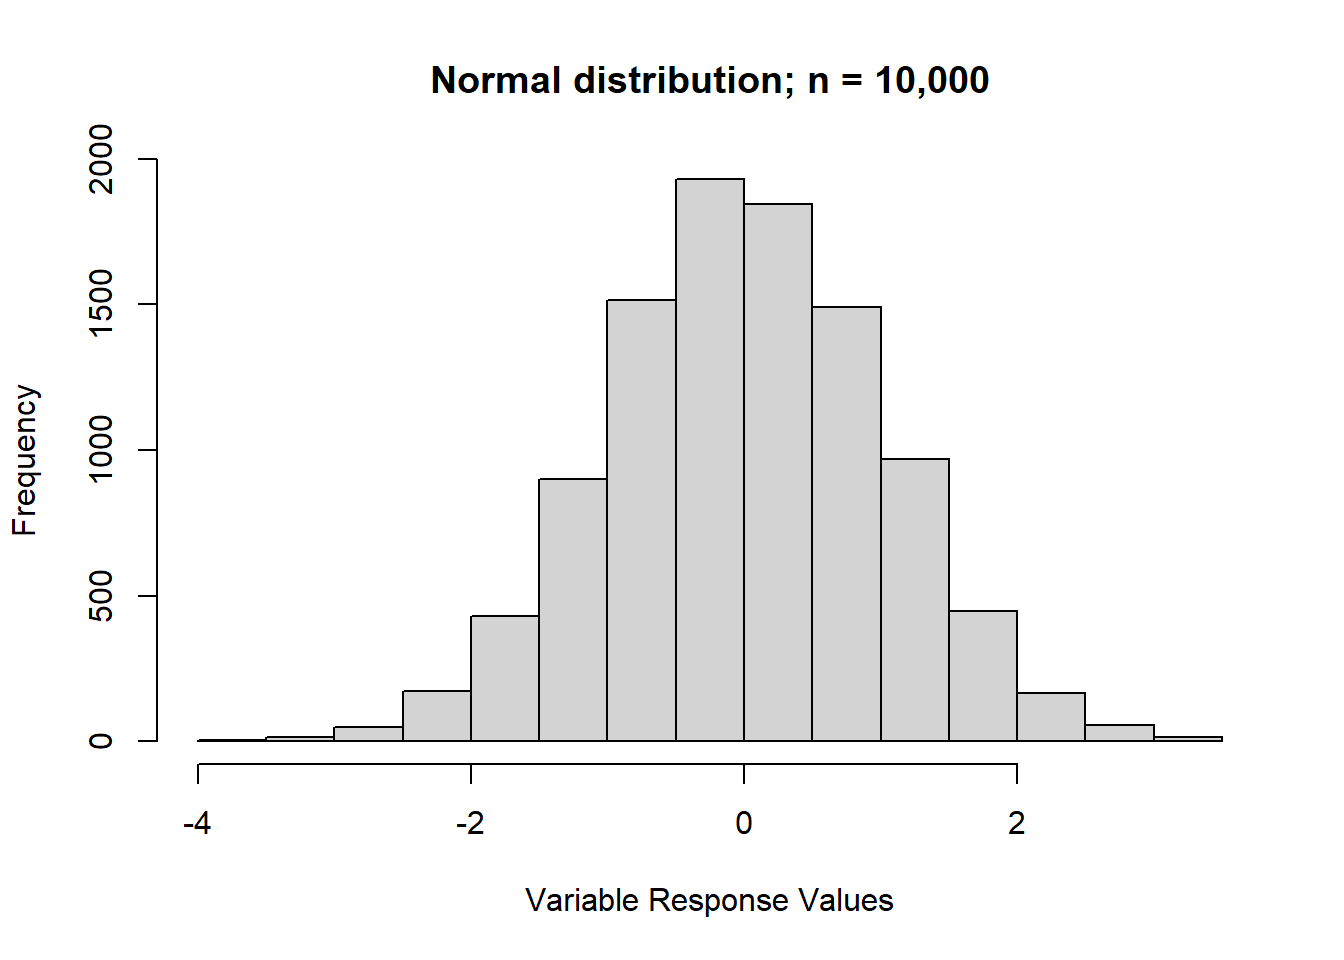
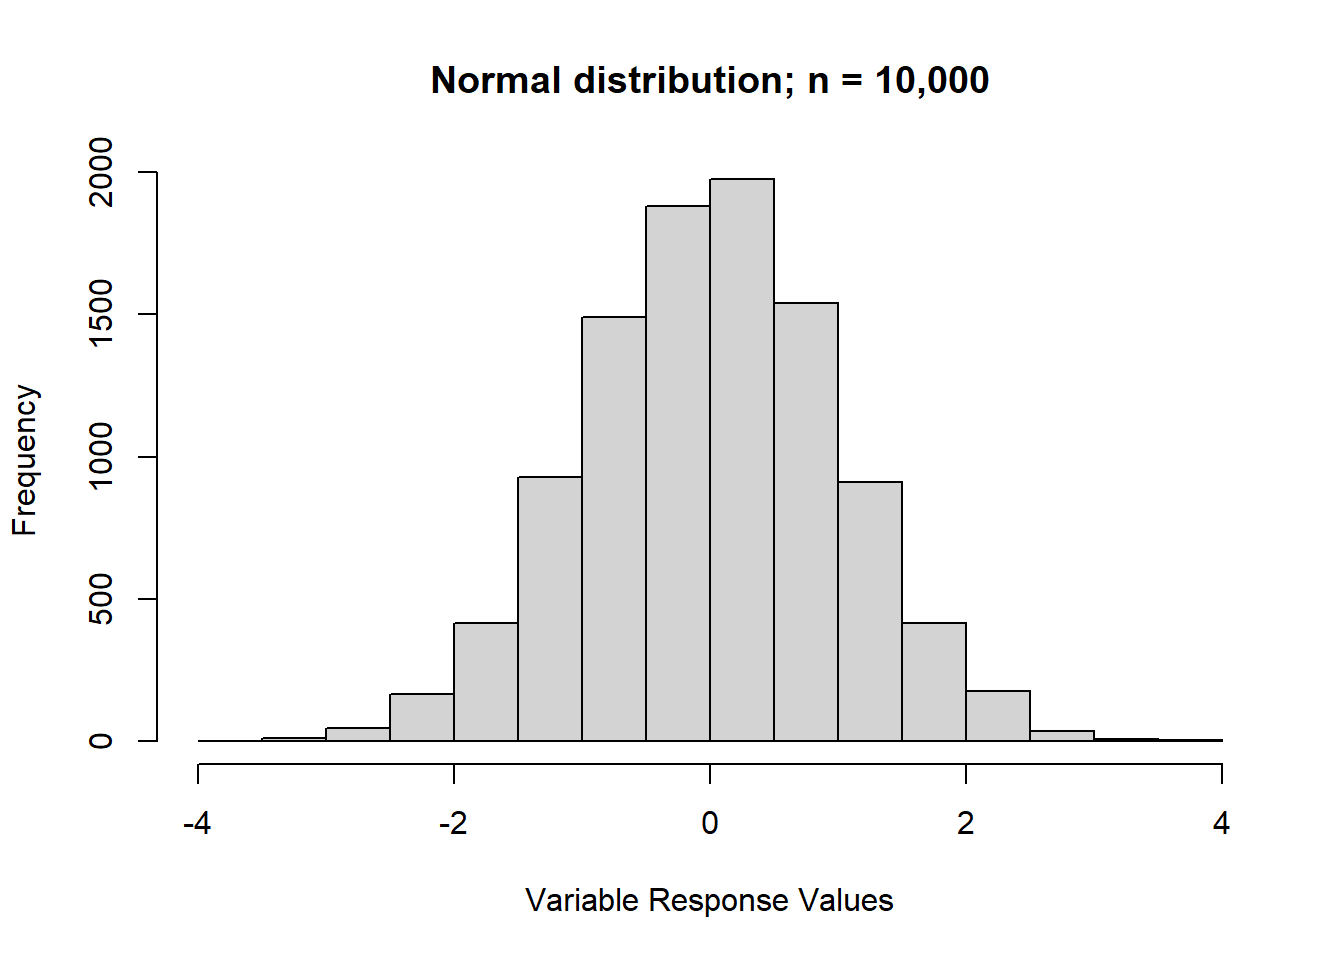
Fixing outlier plot

diff --git a/docs/univariate.html b/docs/univariate.html
@@ -541,13 +541,6 @@ pre > code.sourceCode > span > a:first-child::before { text-decoration: underlin
 <p>Lastly, I’ll show a normal distribution with outliers. This is also a situation where we would need to take the mode of an ordinal variable. Note that the vast majority of this distribution is between -4 and 4, but we have some observations at -20, way outside the range of the distribution. For a categorical variable—even an ordinal one—the median will not be ideal in this context.</p>
 <p>We do want to keep any outlier values if we have good reason to believe that they were measured correctly, but it’s always worth double-checking outliers, as they sometimes indicate that something has gone wrong with the measurement process.</p>
 <div class="cell">
-<div class="sourceCode cell-code" id="cb26"><pre class="sourceCode r code-with-copy"><code class="sourceCode r"><span id="cb26-1"><a href="#cb26-1" aria-hidden="true" tabindex="-1"></a><span class="fu">hist</span>(</span>
-<span id="cb26-2"><a href="#cb26-2" aria-hidden="true" tabindex="-1"></a>  <span class="fu">c</span>(</span>
-<span id="cb26-3"><a href="#cb26-3" aria-hidden="true" tabindex="-1"></a>    <span class="fu">rnorm</span>(<span class="dv">300</span>),</span>
-<span id="cb26-4"><a href="#cb26-4" aria-hidden="true" tabindex="-1"></a>    <span class="dv">1</span>,</span>
-<span id="cb26-5"><a href="#cb26-5" aria-hidden="true" tabindex="-1"></a>  <span class="sc">-</span><span class="dv">20</span></span>
-<span id="cb26-6"><a href="#cb26-6" aria-hidden="true" tabindex="-1"></a>  )</span>
-<span id="cb26-7"><a href="#cb26-7" aria-hidden="true" tabindex="-1"></a>) </span></code><button title="Copy to Clipboard" class="code-copy-button"><i class="bi"></i></button></pre></div>
 <div class="cell-output-display">
 <div>
 <figure class="figure">
@@ -558,6 +551,45 @@ pre > code.sourceCode > span > a:first-child::before { text-decoration: underlin
 </div>
 <p>So, if the distribution of your variable looks (mostly) like the normal distribution, go ahead and take the median of any ordinal variable.</p>
 <p>Let’s go ahead and practice doing that with the <code>age_ord</code> variable we created last time.</p>
+<p>In the case of <code>age_ord</code>, we’d actually want to take the mode, because it’s a bit left-skewed. We can see that when we make the barplot</p>
+<div class="cell">
+<div class="sourceCode cell-code" id="cb26"><pre class="sourceCode r code-with-copy"><code class="sourceCode r"><span id="cb26-1"><a href="#cb26-1" aria-hidden="true" tabindex="-1"></a>our_gss<span class="sc">$</span>age_ord <span class="sc">|&gt;</span></span>
+<span id="cb26-2"><a href="#cb26-2" aria-hidden="true" tabindex="-1"></a>  <span class="fu">summary</span>() <span class="sc">|&gt;</span></span>
+<span id="cb26-3"><a href="#cb26-3" aria-hidden="true" tabindex="-1"></a>  <span class="fu">barplot</span>(</span>
+<span id="cb26-4"><a href="#cb26-4" aria-hidden="true" tabindex="-1"></a>    <span class="at">main =</span> <span class="st">"Age Distribution of GSS Respondents"</span>,</span>
+<span id="cb26-5"><a href="#cb26-5" aria-hidden="true" tabindex="-1"></a>    <span class="at">xlab =</span> <span class="st">"Age grouping"</span></span>
+<span id="cb26-6"><a href="#cb26-6" aria-hidden="true" tabindex="-1"></a>  )</span></code><button title="Copy to Clipboard" class="code-copy-button"><i class="bi"></i></button></pre></div>
+<div class="cell-output-display">
+<div>
+<figure class="figure">
+<p><img src="univariate_files/figure-html/unnamed-chunk-23-1.png" class="img-fluid figure-img" width="672"></p>
+</figure>
+</div>
+</div>
+</div>
+<p>However, there’s not a great example of a normally distributed ordinal variable in our subset, so I’ll show you how to calculate the median using this variable anyhow.</p>
+<p>For this, we can use the <code>quantile()</code> function. It has a lot of nifty uses, but we will only really use it for this purpose—calculating the median of a normally distributed ordinal variable.</p>
+<p>In technical terms, quantiles are markers that split up a distribution into equal parts.</p>
+<p>For our purposes, you can think of quantiles in terms of percentiles, where, for example, being in the 90th percentile means you are performing at or above 90% of others in the sample.</p>
+<p>We can use the <code>quantile()</code> function to get the value at the 50th percentile of the distribution, which is another way of saying the median.</p>
+<div class="cell">
+<div class="sourceCode cell-code" id="cb27"><pre class="sourceCode r code-with-copy"><code class="sourceCode r"><span id="cb27-1"><a href="#cb27-1" aria-hidden="true" tabindex="-1"></a><span class="fu">quantile</span>(</span>
+<span id="cb27-2"><a href="#cb27-2" aria-hidden="true" tabindex="-1"></a>our_gss<span class="sc">$</span>age_ord, </span>
+<span id="cb27-3"><a href="#cb27-3" aria-hidden="true" tabindex="-1"></a>.<span class="dv">5</span>, </span>
+<span id="cb27-4"><a href="#cb27-4" aria-hidden="true" tabindex="-1"></a><span class="at">type =</span> <span class="dv">1</span>,</span>
+<span id="cb27-5"><a href="#cb27-5" aria-hidden="true" tabindex="-1"></a><span class="at">na.rm =</span> <span class="cn">TRUE</span></span>
+<span id="cb27-6"><a href="#cb27-6" aria-hidden="true" tabindex="-1"></a>)</span></code><button title="Copy to Clipboard" class="code-copy-button"><i class="bi"></i></button></pre></div>
+<div class="cell-output cell-output-stdout">
+<pre><code>       50% 
+Middle Age 
+Levels: Younger &lt; Middle Age &lt; Older</code></pre>
+</div>
+</div>
+<p>For the first input, we provide the ordinal variable column for which we want to calculate the median.</p>
+<p>Then, we give a proportion equivalent to the percentile that we want. Because want to take the value at the 50th percentile, we will enter 0.5.</p>
+<p>The specifics of the ‘type’ argument are a little above our paygrade, but we need to specify this so that <code>quantile()</code> knows its working with an ordered factor.</p>
+<p>Lastly, we’ll specify that we want NAs to be removed in the calculation, as R will throw an error unless we tell it to disregard these.</p>
+<p>So, we can see that ‘Middle Age’ would be the median response—which we would report if <code>age_ord</code> weren’t skewed.</p>
 
 
 </section>
